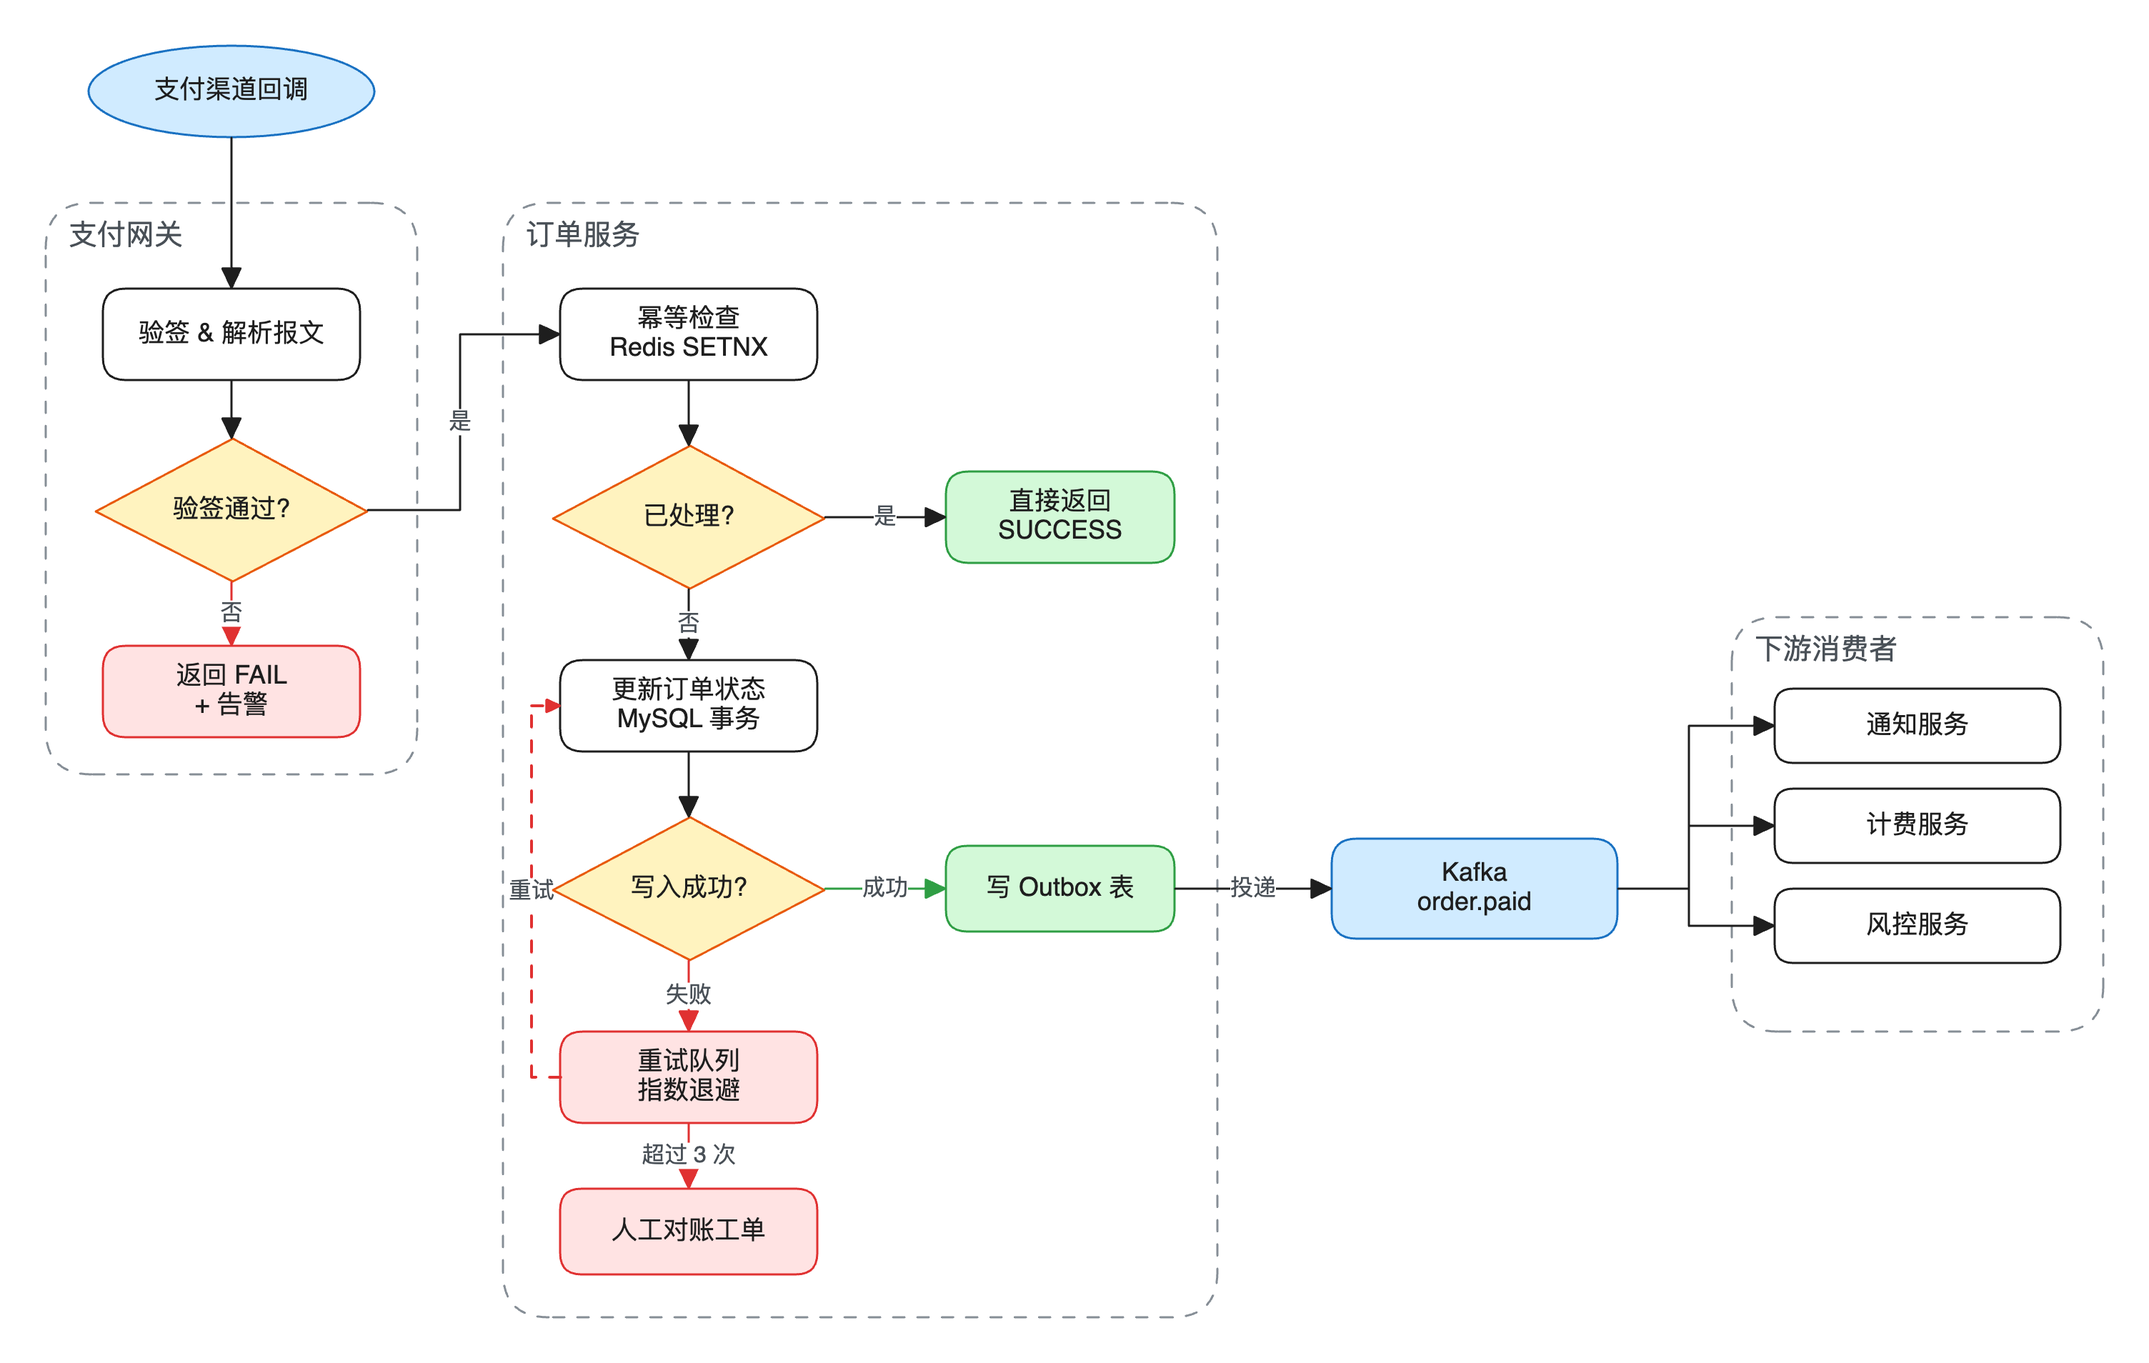
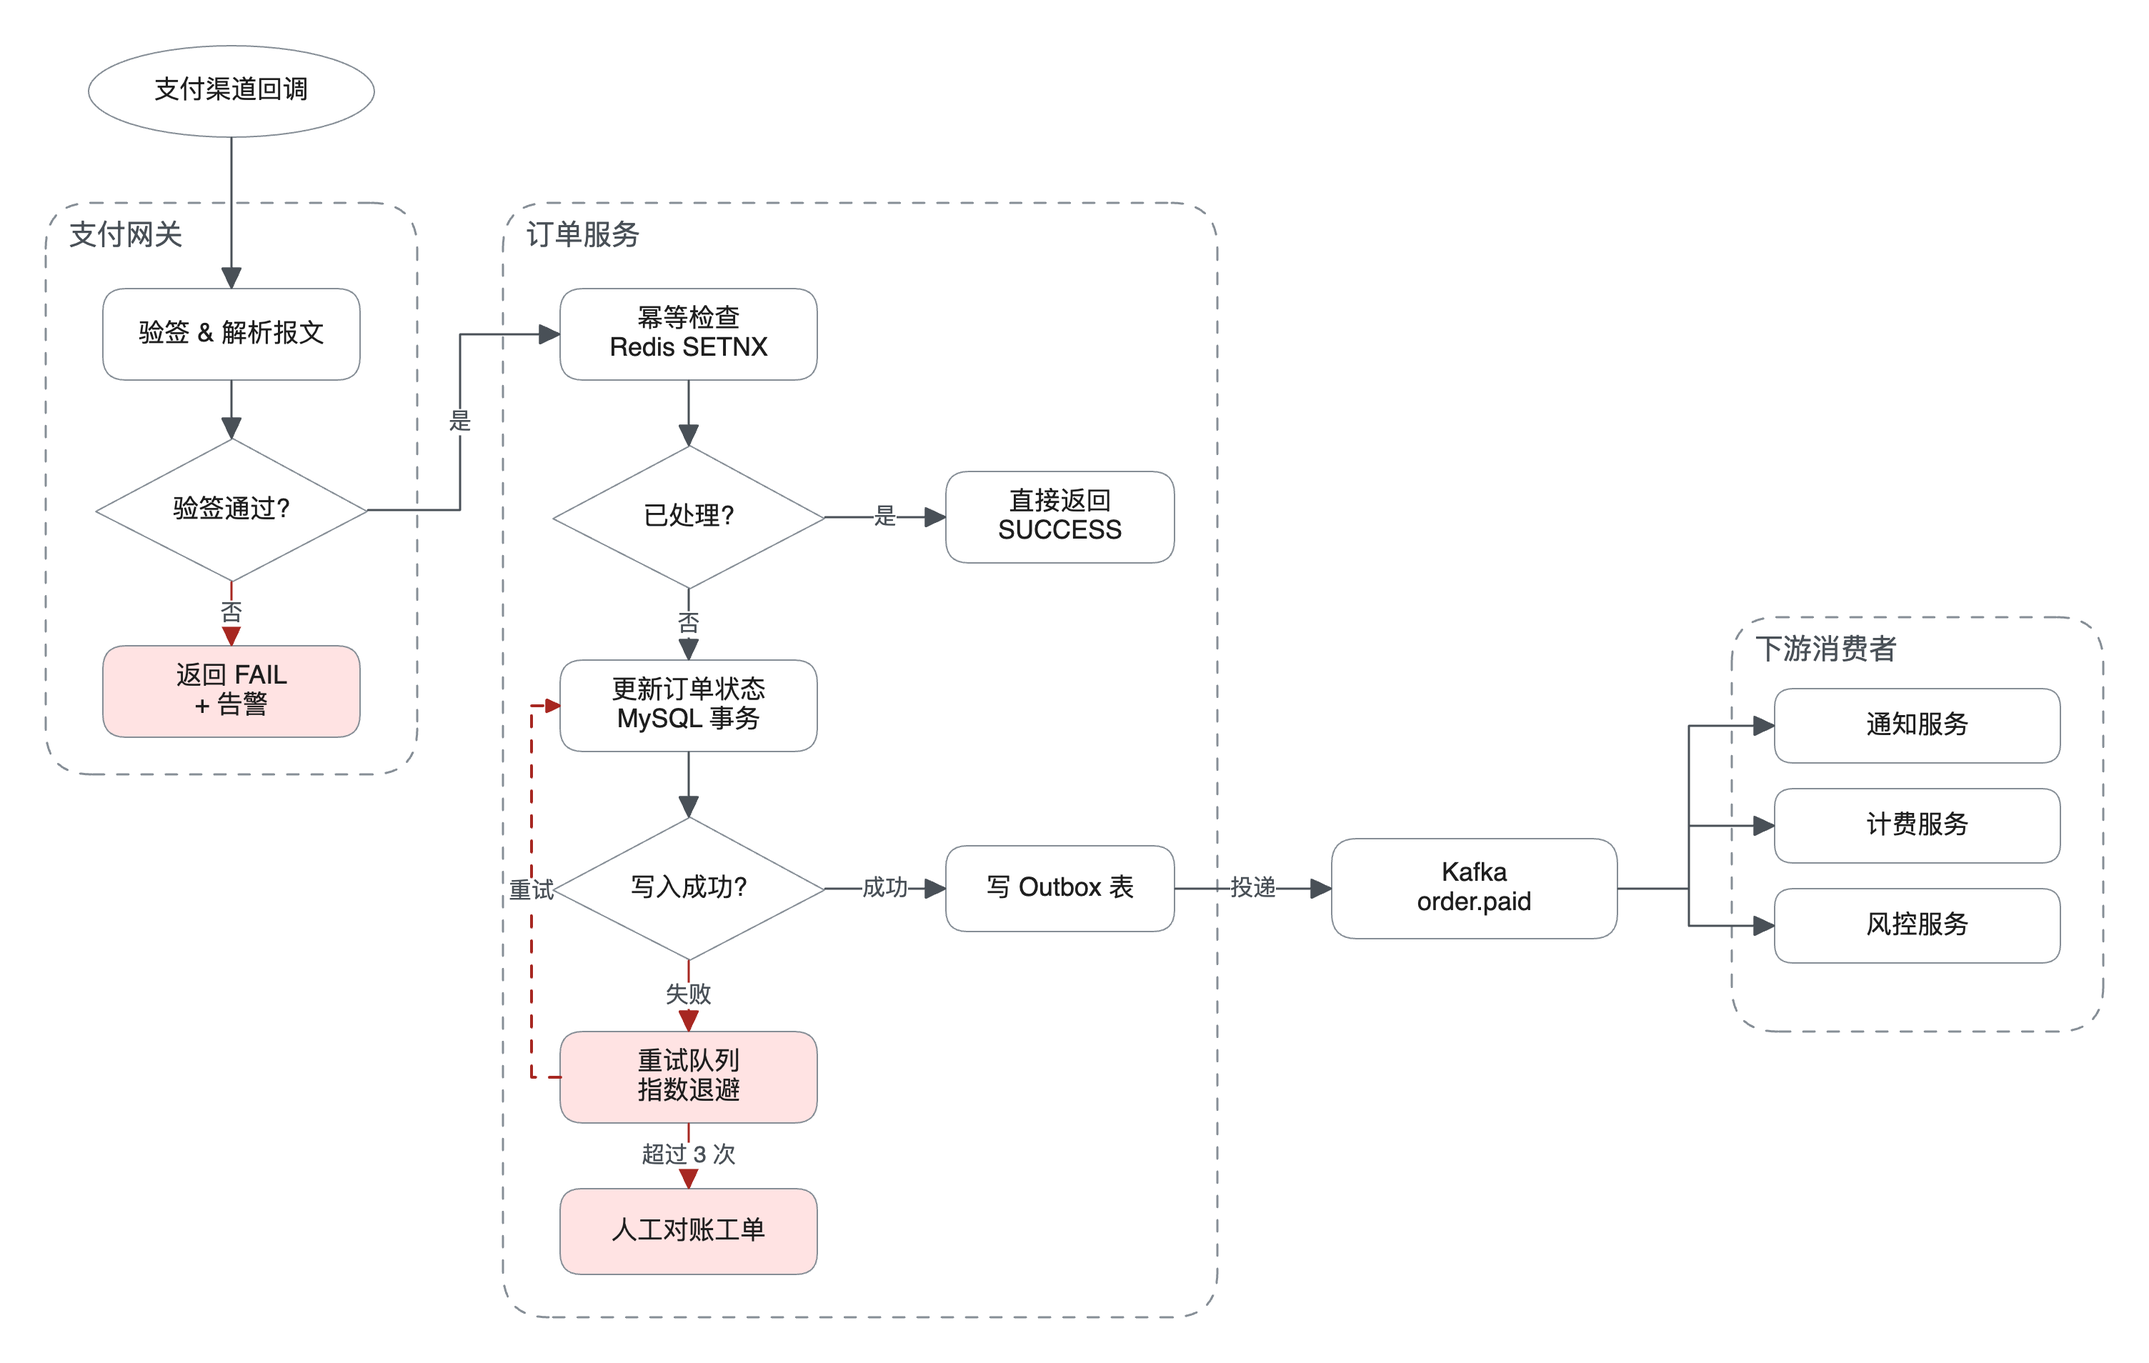
Release 1.2.0 with neutral-by-default colours
Colour is now emphasis, not classification. A diagram is drawn in neutral
colours first, and colour goes only on what the diagram is about.

- SKILL.md: new section "用色：少即是多". There are two reasons to colour
  something: focus (where the conclusion lands) and correspondence (the
  same thing shown in several places). A category that text, shape or
  position already tells stays neutral.
- color-palette.md: reorganised by purpose (neutral, colours, which hue
  to pick). Shapes get a thin grey outline (#868e96, width 1) and default
  connectors are #495057. Fills are unchanged; the text and line tones
  are calmer and all reach 4.5:1 on white.
- element-templates.md and the example flowchart follow the new rules.
  In the example only the failure-handling nodes are tinted.

diff --git a/skills/excalidraw-diagram/references/color-palette.md b/skills/excalidraw-diagram/references/color-palette.md
@@ -1,53 +1,65 @@
 # 配色（唯一来源）
 
-颜色来自 Excalidraw 自带的色板（Open Color）。颜色只用来表达含义，不做装饰：一张图里大部分节点应该是白底黑框，只有承载语义的节点才上色。
+什么时候上色，见 SKILL.md 的"用色：少即是多"。这里只管用哪个值。
 
-## 节点
+## 中性色（默认，绝大多数元素都用它）
 
-| 语义 | 用在哪里 | backgroundColor | strokeColor |
-|---|---|---|---|
-| step 普通步骤 | 绝大多数节点：步骤、服务、组件 | `#ffffff` | `#1e1e1e` |
-| decision 判断 | 菱形 | `#fff3bf` | `#e8590c` |
-| success 成功 | 成功出口、正常完成、幂等命中直接返回 | `#d3f9d8` | `#2f9e44` |
-| error 失败或异常 | 失败处理、告警、补偿、重试、人工介入 | `#ffe3e3` | `#e03131` |
-| infra 中间件、存储、入口 | MQ、DB、Cache、外部触发入口（ellipse） | `#d0ebff` | `#1971c2` |
-| external 外部系统 | 第三方、其他团队的系统 | `#f1f3f5` | `#495057` |
-| changed 本次改动 | 技术方案里标注新增或修改的部分；一张图最多用这一类强调 | `#e5dbff` | `#6741d9` |
+| 用在哪里 | 值 |
+|---|---|
+| 节点、格子 | `backgroundColor: "#ffffff"`，`strokeColor: "#868e96"`，`strokeWidth: 1` |
+| 文字 | `#1e1e1e` |
+| 连线、箭头 | `#495057`，`strokeWidth: 1.5` |
+| 淡化：外部系统、已删除或空着的位置、和结论无关但必须画出来的部分 | `backgroundColor: "#f1f3f5"`，框同上。还要更弱时用虚线框，文字用 `#868e96` |
+| 背景 | `#ffffff` |
 
-节点内文字一律用 `#1e1e1e`。
+## 彩色
 
-## 领域身份色（区分参与方、系统、团队）
+每个色系两个值。**底色**铺在形状里；**字线色**用于彩色的文字、连线和箭头。
 
-图里有多个领域、系统或参与方时（时序图的参与方、架构图里不同团队的系统），每个领域固定用一种颜色，让读者一眼分清。图里只有一个领域时不用。
+上了底色的形状，框仍然用中性的细灰线，里面的文字仍然用 `#1e1e1e`。颜色出现在底色这一处就够了，框和字再跟着变色只会更吵。
 
-| 顺序 | 色相 | 填充（参与方框） | 描边、箭头 | 生命线、浅色边 |
-|---|---|---|---|---|
-| 1 | 紫 | `#e5dbff` | `#6741d9` | `#b197fc` |
-| 2 | 蓝 | `#d0ebff` | `#1971c2` | `#74c0fc` |
-| 3 | 青 | `#c5f6fa` | `#0c8599` | `#66d9e8` |
-| 4 | 葡萄 | `#f3d9fa` | `#9c36b5` | `#e599f7` |
+| 色系 | 底色 | 字线色 |
+|---|---|---|
+| 蓝 | `#d0ebff` | `#2a5fb7` |
+| 黄 | `#fff3bf` | `#ab6100` |
+| 绿 | `#d3f9d8` | `#277539` |
+| 红 | `#ffe3e3` | `#a72721` |
+| 紫 | `#e5dbff` | `#824fbf` |
+| 青 | `#c5f6fa` | `#357f95` |
+| 葡萄 | `#f3d9fa` | `#b2468a` |
 
-- 文档主体（"我方"）用第 1 个，其余按从左到右依次取。
-- 时序图：参与方框用填充加描边，框内文字 `#1e1e1e`，`fontSize: 20`；生命线用浅色虚线；消息箭头用**发起方**的描边色；消息标签文字统一用 `#343a40`。不加图例。
-- 架构图和流程图：分组框的边框和标题用该领域的描边色（框仍是透明虚线）。框内节点照常按上面的语义配色，不要整框染色。
+字线色对白底的对比度都不低于 4.5:1，可以直接当文字色。
 
-## 分组框（系统、服务、分层边界）
+## 取哪个色
 
-- 框：`backgroundColor: "transparent"`、`strokeColor: "#868e96"`、`strokeStyle: "dashed"`、`strokeWidth: 1`
-- 标题：在框内左上角放一个自由文字（x+16、y+12），`fontSize: 20`、`strokeColor: "#495057"`
+| 用途 | 取色 |
+|---|---|
+| 焦点，只有一种 | 蓝 |
+| 焦点是两方的关系：读和写、来源和去向、改动前后 | 蓝、黄 |
+| 焦点有好坏之分：成功和失败、正确和错误 | 绿、红。通常只有一边需要强调，就只上那一边；最常见的是只给失败分支上红色 |
+| 本次改动：技术方案里新增或修改的部分 | 紫 |
+| 对应：同一个量、同一个参与方 | 依次取蓝、黄、紫、青、葡萄。红和绿带有好坏的含义，留给上一行 |
+
+同一张图里，一种颜色只表示一个意思。
 
 ## 连线
 
 | 用途 | strokeColor | 线型 |
 |---|---|---|
-| 默认 | `#1e1e1e` | 实线 |
-| 失败或异常分支 | `#e03131` | 实线 |
-| 判断后走向成功的那一条 | `#2f9e44` | 实线 |
-| 回环、重试 | `#e03131` | `strokeStyle: "dashed"` |
-| 异步调用、返回消息 | 沿用上面对应的颜色 | `strokeStyle: "dashed"` |
+| 默认 | `#495057` | 实线 |
+| 失败或异常分支 | `#a72721` | 实线 |
+| 回环、重试 | `#a72721` | `strokeStyle: "dashed"` |
+| 异步调用、返回消息 | 沿用它本来的颜色 | `strokeStyle: "dashed"` |
+| 时序图的消息 | 发起方的字线色 | 调用用实线，返回用虚线 |
 | 时序图生命线（`line`） | `#adb5bd` | `strokeStyle: "dashed"`，`strokeWidth: 1` |
 
-连线标签的文字：`#495057`，`fontSize: 16`。
+连线标签的文字：`#495057`，`fontSize: 16`。时序图的消息标签是图里的主要内容，用深一档的 `#343a40`。
+
+## 分组框（系统、服务、分层边界）
+
+- 框：`backgroundColor: "transparent"`、`strokeColor: "#868e96"`、`strokeStyle: "dashed"`、`strokeWidth: 1`
+- 标题：在框内左上角放一个自由文字（x+16、y+12），`fontSize: 20`、`strokeColor: "#495057"`
+- 需要突出某一方时，把那一方的框和标题改成对应色系的字线色。框仍然是透明虚线，不要整框铺色。
 
 ## 文字
 
@@ -56,13 +68,10 @@
 | 图标题（可选） | `#1e1e1e` | 28 |
 | 分组标题 | `#495057` | 20 |
 | 节点文字 | `#1e1e1e` | 18 |
-| 连线标签 | `#495057` | 16 |
+| 连线标签 | `#495057`（时序图的消息标签 `#343a40`） | 16 |
 | 注释、备注 | `#868e96` | 14 到 16 |
+| 彩色文字：和某个上了色的形状是同一个量时才用 | 该色系的字线色 | 按所在层级 |
 
 ## 代码和数据片段（可选，少用）
 
 浅色框：`backgroundColor: "#f8f9fa"`、`strokeColor: "#dee2e6"`。文字用 `fontFamily: 3`（等宽）、`fontSize: 14`、`#1e1e1e`、左对齐。不要用深色代码块。
-
-## 背景
-
-`#ffffff`。

diff --git a/skills/excalidraw-diagram/references/element-templates.md b/skills/excalidraw-diagram/references/element-templates.md
@@ -12,14 +12,15 @@
 - `id`：唯一且有含义，例如 `order_tx`。连线以 `e_` 开头，例如 `e_tx_fail`。
 - `x`、`y` 是左上角坐标，取 10 的倍数。
 - 颜色、字号一律按 color-palette.md。
+- 形状里的 `label` 一定要写 `strokeColor`。不写的话，文字会跟着形状的框变成灰色。
 - 数组顺序就是绘制顺序：先放分组框，再放节点，最后放连线。
 
 ## 节点
 
-普通步骤：
+普通步骤（默认的中性色）：
 ```json
 {"type": "rectangle", "id": "tx", "x": 360, "y": 430, "width": 180, "height": 64,
- "backgroundColor": "#ffffff", "strokeColor": "#1e1e1e", "fillStyle": "solid", "strokeWidth": 1.5, "roughness": 0,
+ "backgroundColor": "#ffffff", "strokeColor": "#868e96", "fillStyle": "solid", "strokeWidth": 1, "roughness": 0,
  "roundness": {"type": 3},
  "label": {"text": "更新订单状态\nMySQL 事务", "fontSize": 18, "fontFamily": 2, "strokeColor": "#1e1e1e"}}
 ```
@@ -27,13 +28,21 @@
 判断（菱形不加 `roundness`）：
 ```json
 {"type": "diamond", "id": "tx_ok", "x": 355, "y": 540, "width": 190, "height": 100,
- "backgroundColor": "#fff3bf", "strokeColor": "#e8590c", "fillStyle": "solid", "strokeWidth": 1.5, "roughness": 0,
+ "backgroundColor": "#ffffff", "strokeColor": "#868e96", "fillStyle": "solid", "strokeWidth": 1, "roughness": 0,
  "label": {"text": "写入成功?", "fontSize": 18, "fontFamily": 2, "strokeColor": "#1e1e1e"}}
 ```
 
-入口或外部触发：`"type": "ellipse"`，尺寸 200×64，配 infra 色，其余字段同上。
+入口或外部触发：`"type": "ellipse"`，尺寸 200×64，其余字段同普通步骤。
 
-中间件或存储：rectangle 配 infra 色，标签写实例或 topic，例如 `"Kafka\norder.paid"`。
+中间件或存储：字段同普通步骤，标签写实例或 topic，例如 `"Kafka\norder.paid"`。
+
+需要上色的节点（焦点或对应）：只把 `backgroundColor` 换成该色系的底色，框和文字不变。
+```json
+{"type": "rectangle", "id": "retry", "x": 360, "y": 690, "width": 180, "height": 64,
+ "backgroundColor": "#ffe3e3", "strokeColor": "#868e96", "fillStyle": "solid", "strokeWidth": 1, "roughness": 0,
+ "roundness": {"type": 3},
+ "label": {"text": "重试队列\n指数退避", "fontSize": 18, "fontFamily": 2, "strokeColor": "#1e1e1e"}}
+```
 
 ## 分组框和标题
 
@@ -56,10 +65,10 @@
 - 左：`(x, y + h/2)`
 - 右：`(x + w, y + h/2)`
 
-直线，带标签：
+直线，带标签（默认用 `#495057`；这一条是失败分支，所以用红的字线色）：
 ```json
 {"type": "arrow", "id": "e_tx_fail", "x": 450, "y": 640, "points": [[0, 0], [0, 50]],
- "strokeColor": "#e03131", "strokeWidth": 1.5, "roughness": 0, "endArrowhead": "triangle",
+ "strokeColor": "#a72721", "strokeWidth": 1.5, "roughness": 0, "endArrowhead": "triangle",
  "start": {"id": "tx_ok"}, "end": {"id": "retry"},
  "label": {"text": "失败", "fontSize": 16, "fontFamily": 2, "strokeColor": "#495057"}}
 ```
@@ -81,24 +90,24 @@
 
 ## 时序图元素
 
-参与方：在顶部 `y = 0` 排一行，用领域身份色（见 color-palette.md）。
+参与方：在顶部 `y = 0` 排一行，每个参与方一个对应色（见 color-palette.md 的"取哪个色"），只换底色。
 ```json
 {"type": "rectangle", "id": "p_trade", "x": 610, "y": 0, "width": 260, "height": 60,
- "backgroundColor": "#d0ebff", "strokeColor": "#1971c2", "fillStyle": "solid", "strokeWidth": 1.5, "roughness": 0,
+ "backgroundColor": "#d0ebff", "strokeColor": "#868e96", "fillStyle": "solid", "strokeWidth": 1, "roughness": 0,
  "roundness": {"type": 3},
  "label": {"text": "交易（编排方）", "fontSize": 20, "fontFamily": 2, "strokeColor": "#1e1e1e"}}
 ```
 
-生命线：从参与方框底边中点往下画，用该领域的浅色。
+生命线：从参与方框底边中点往下画，一律用浅灰。
 ```json
 {"type": "line", "id": "life_trade", "x": 740, "y": 60, "points": [[0, 0], [0, 890]],
- "strokeColor": "#74c0fc", "strokeStyle": "dashed", "strokeWidth": 1, "roughness": 0}
+ "strokeColor": "#adb5bd", "strokeStyle": "dashed", "strokeWidth": 1, "roughness": 0}
 ```
 
-消息：水平箭头，从一条生命线画到另一条，不绑定，颜色取发起方的描边色。返回消息加 `"strokeStyle": "dashed"`；异步通知用 `"endArrowhead": "arrow"`。消息之间的纵向间距 ≥ 60。
+消息：水平箭头，从一条生命线画到另一条，不绑定，颜色取发起方的字线色。返回消息加 `"strokeStyle": "dashed"`；异步通知用 `"endArrowhead": "arrow"`。消息之间的纵向间距 ≥ 60。
 ```json
 {"type": "arrow", "id": "e_dispatch", "x": 740, "y": 330, "points": [[0, 0], [440, 0]],
- "strokeColor": "#1971c2", "strokeWidth": 1.5, "roughness": 0, "endArrowhead": "triangle",
+ "strokeColor": "#2a5fb7", "strokeWidth": 1.5, "roughness": 0, "endArrowhead": "triangle",
  "label": {"text": "派单，附第 1 版副本（原样转交）", "fontSize": 16, "fontFamily": 2, "strokeColor": "#343a40"}}
 ```
 

diff --git a/README.md b/README.md
@@ -2,7 +2,7 @@
 
 **English** | [简体中文](README.zh-CN.md)
 
-A Claude Code plugin that draws technical diagrams: flowcharts, architecture diagrams, sequence diagrams, data flows, state machines and call chains. It writes a PNG and an editable `.excalidraw` file, in a clean style that is not hand-drawn, with semantic colours. It renders on your machine and checks the result for overlaps and lines that cross nodes.
+A Claude Code plugin that draws technical diagrams: flowcharts, architecture diagrams, sequence diagrams, data flows, state machines and call chains. It writes a PNG and an editable `.excalidraw` file, in a clean style that is not hand-drawn, neutral by default with colour only on what the diagram is about. It renders on your machine and checks the result for overlaps and lines that cross nodes.
 
 ![Example: a payment callback flowchart](docs/example-flowchart.png)
 
@@ -48,7 +48,7 @@ To prepare and test this checkout without changing Claude Code plugins or system
 
 ## Features
 
-- **Style.** Conventional technical diagrams: semantic colours, straight horizontal and vertical connectors, Helvetica, and steady lines rather than a hand-drawn look.
+- **Style.** Conventional technical diagrams: neutral by default with colour only on what matters, straight horizontal and vertical connectors, Helvetica, and steady lines rather than a hand-drawn look.
 - **Input format.** The model writes a skeleton file (`.skel.json`). Excalidraw measures the text and centres the labels itself, so Chinese text does not overflow.
 - **Renderer.** Node.js with `playwright-core`, driving the Google Chrome already on the machine, so no browser download. Excalidraw, React and the bundled fonts load locally. The npm lockfile fixes the dependency versions, and esbuild produces the browser bundle during setup.
 - **Automatic checks.** Each render checks for overlapping nodes, connectors through nodes, diagonal lines, colliding labels, nodes outside their group, and shapes stretched by their text.

diff --git a/README.zh-CN.md b/README.zh-CN.md
@@ -2,7 +2,7 @@
 
 [English](README.md) | **简体中文**
 
-Claude Code 插件：画技术图，包括流程图、架构图、时序图、数据流、状态机、调用链。输出 PNG 和可编辑的 `.excalidraw` 文件，干净的非手绘风格，用语义配色，本地渲染，并自动检查重叠和穿线。
+Claude Code 插件：画技术图，包括流程图、架构图、时序图、数据流、状态机、调用链。输出 PNG 和可编辑的 `.excalidraw` 文件，干净的非手绘风格，配色克制（默认中性色，只给重点上色），本地渲染，并自动检查重叠和穿线。
 
 ![样例：支付回调流程图](docs/example-flowchart.png)
 
@@ -48,7 +48,7 @@ cd claude-excalidraw-diagram
 
 ## 特点
 
-- **风格**：常规技术图，语义配色、横平竖直的连线、Helvetica 字体、线条不抖，不是手绘风。
+- **风格**：常规技术图，默认中性色、只给重点上色，横平竖直的连线、Helvetica 字体、线条不抖，不是手绘风。
 - **输入格式**：AI 写骨架文件（`.skel.json`），由 Excalidraw 自己测量文字、居中标签，中文不会溢出。
 - **渲染器**：Node + `playwright-core`，直接用本机的 Google Chrome，不用另外下载浏览器。Excalidraw、React 和附带字体均从本地加载；npm 锁文件固定依赖版本，准备阶段使用 esbuild 生成浏览器代码包。
 - **自动检查**：渲染时检查节点重叠、连线穿过节点、斜线、标签碰撞、节点跨出分组边界、形状被文字撑大。
